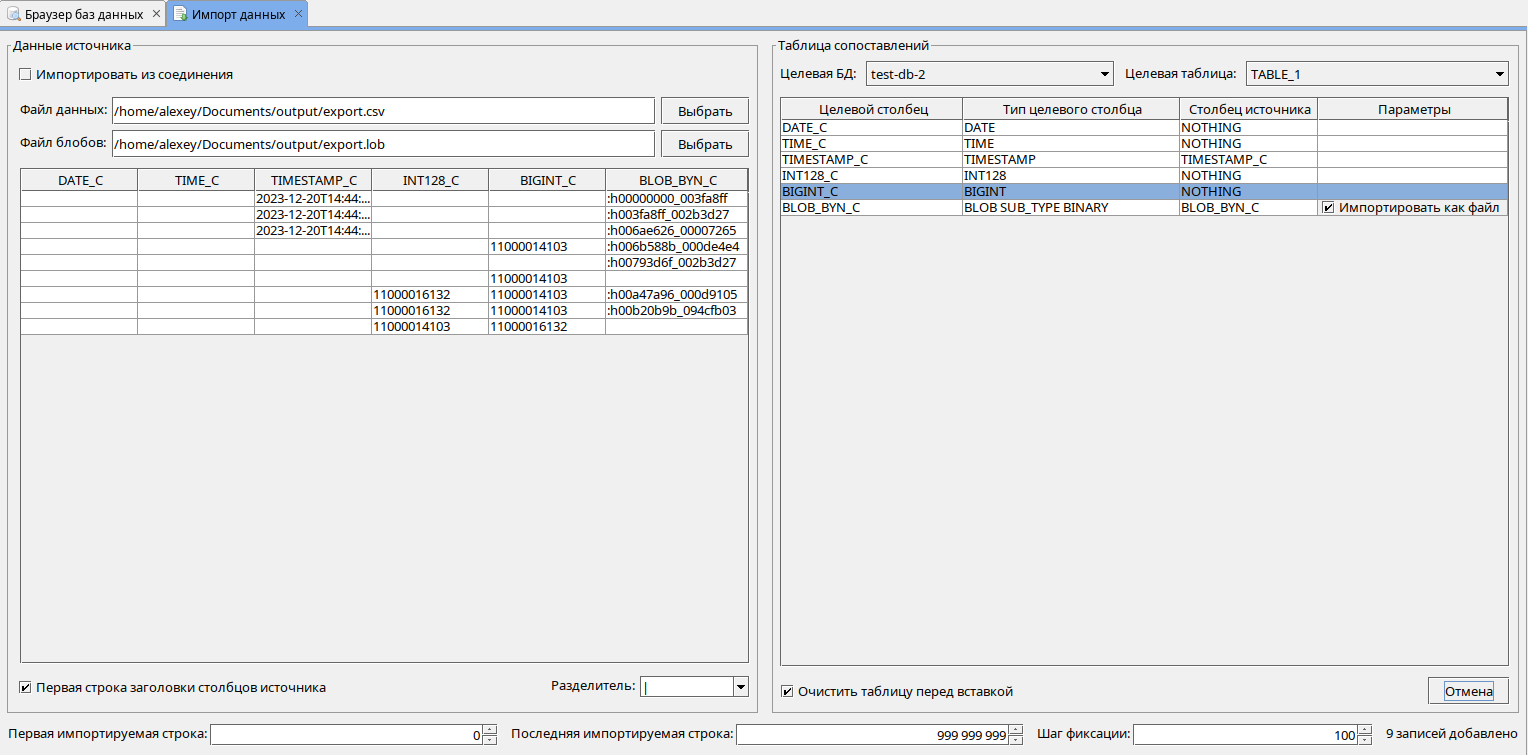
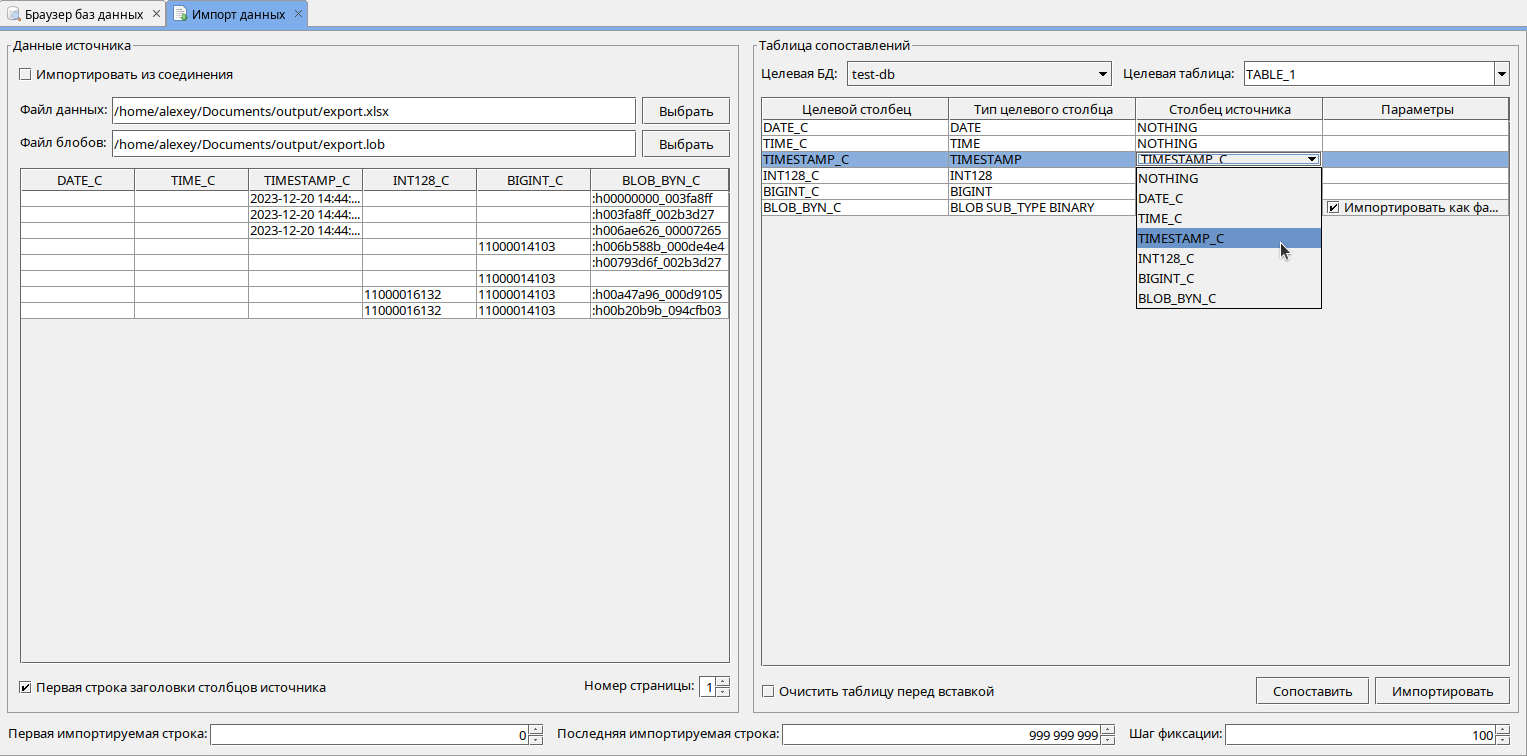
Correct description of data import module

Changed region(s): [[0.0, 0.0305, 1.0, 1.0], [0.8926, 0.1219, 0.9542, 0.1523]]

diff --git a/guide/RedExpert_Guide-ru.tex b/guide/RedExpert_Guide-ru.tex
@@ -662,7 +662,7 @@ Red Expert использует информацию, доступную из у
 		Последняя импортируемая строка & Строка, поcле которой импорт данных будет прекращён. Строки, непопадающие в диапазон между первой и последней импортируемой строкой, будут проигнорированы.\\\hline
 		Шаг фиксации & Количество записей, после которого будет произведено подтверждение транзакии и сохранение данных в таблице.\\\hline
 		Очистить таблицу перед вставкой & Следует ли очистить целевую таблицу от данных, которые в ней были до импорта.\\\hline
-		Столбец источника & Имя столбца, из которого нужно импортировать данные..\\\hline
+		Столбец источника & Имя столбца, из которого нужно импортировать данные.  Кнопка \ttt{Сопоставить} автоматически распределяет импортируемые столбцы к целевым столбцам по их именам.\\\hline
 		Параметры & Импортировать \ttt{BLOB} как файл или как текст.\\\hline
 	\end{longtable}
 	Пример заполнения полей:
